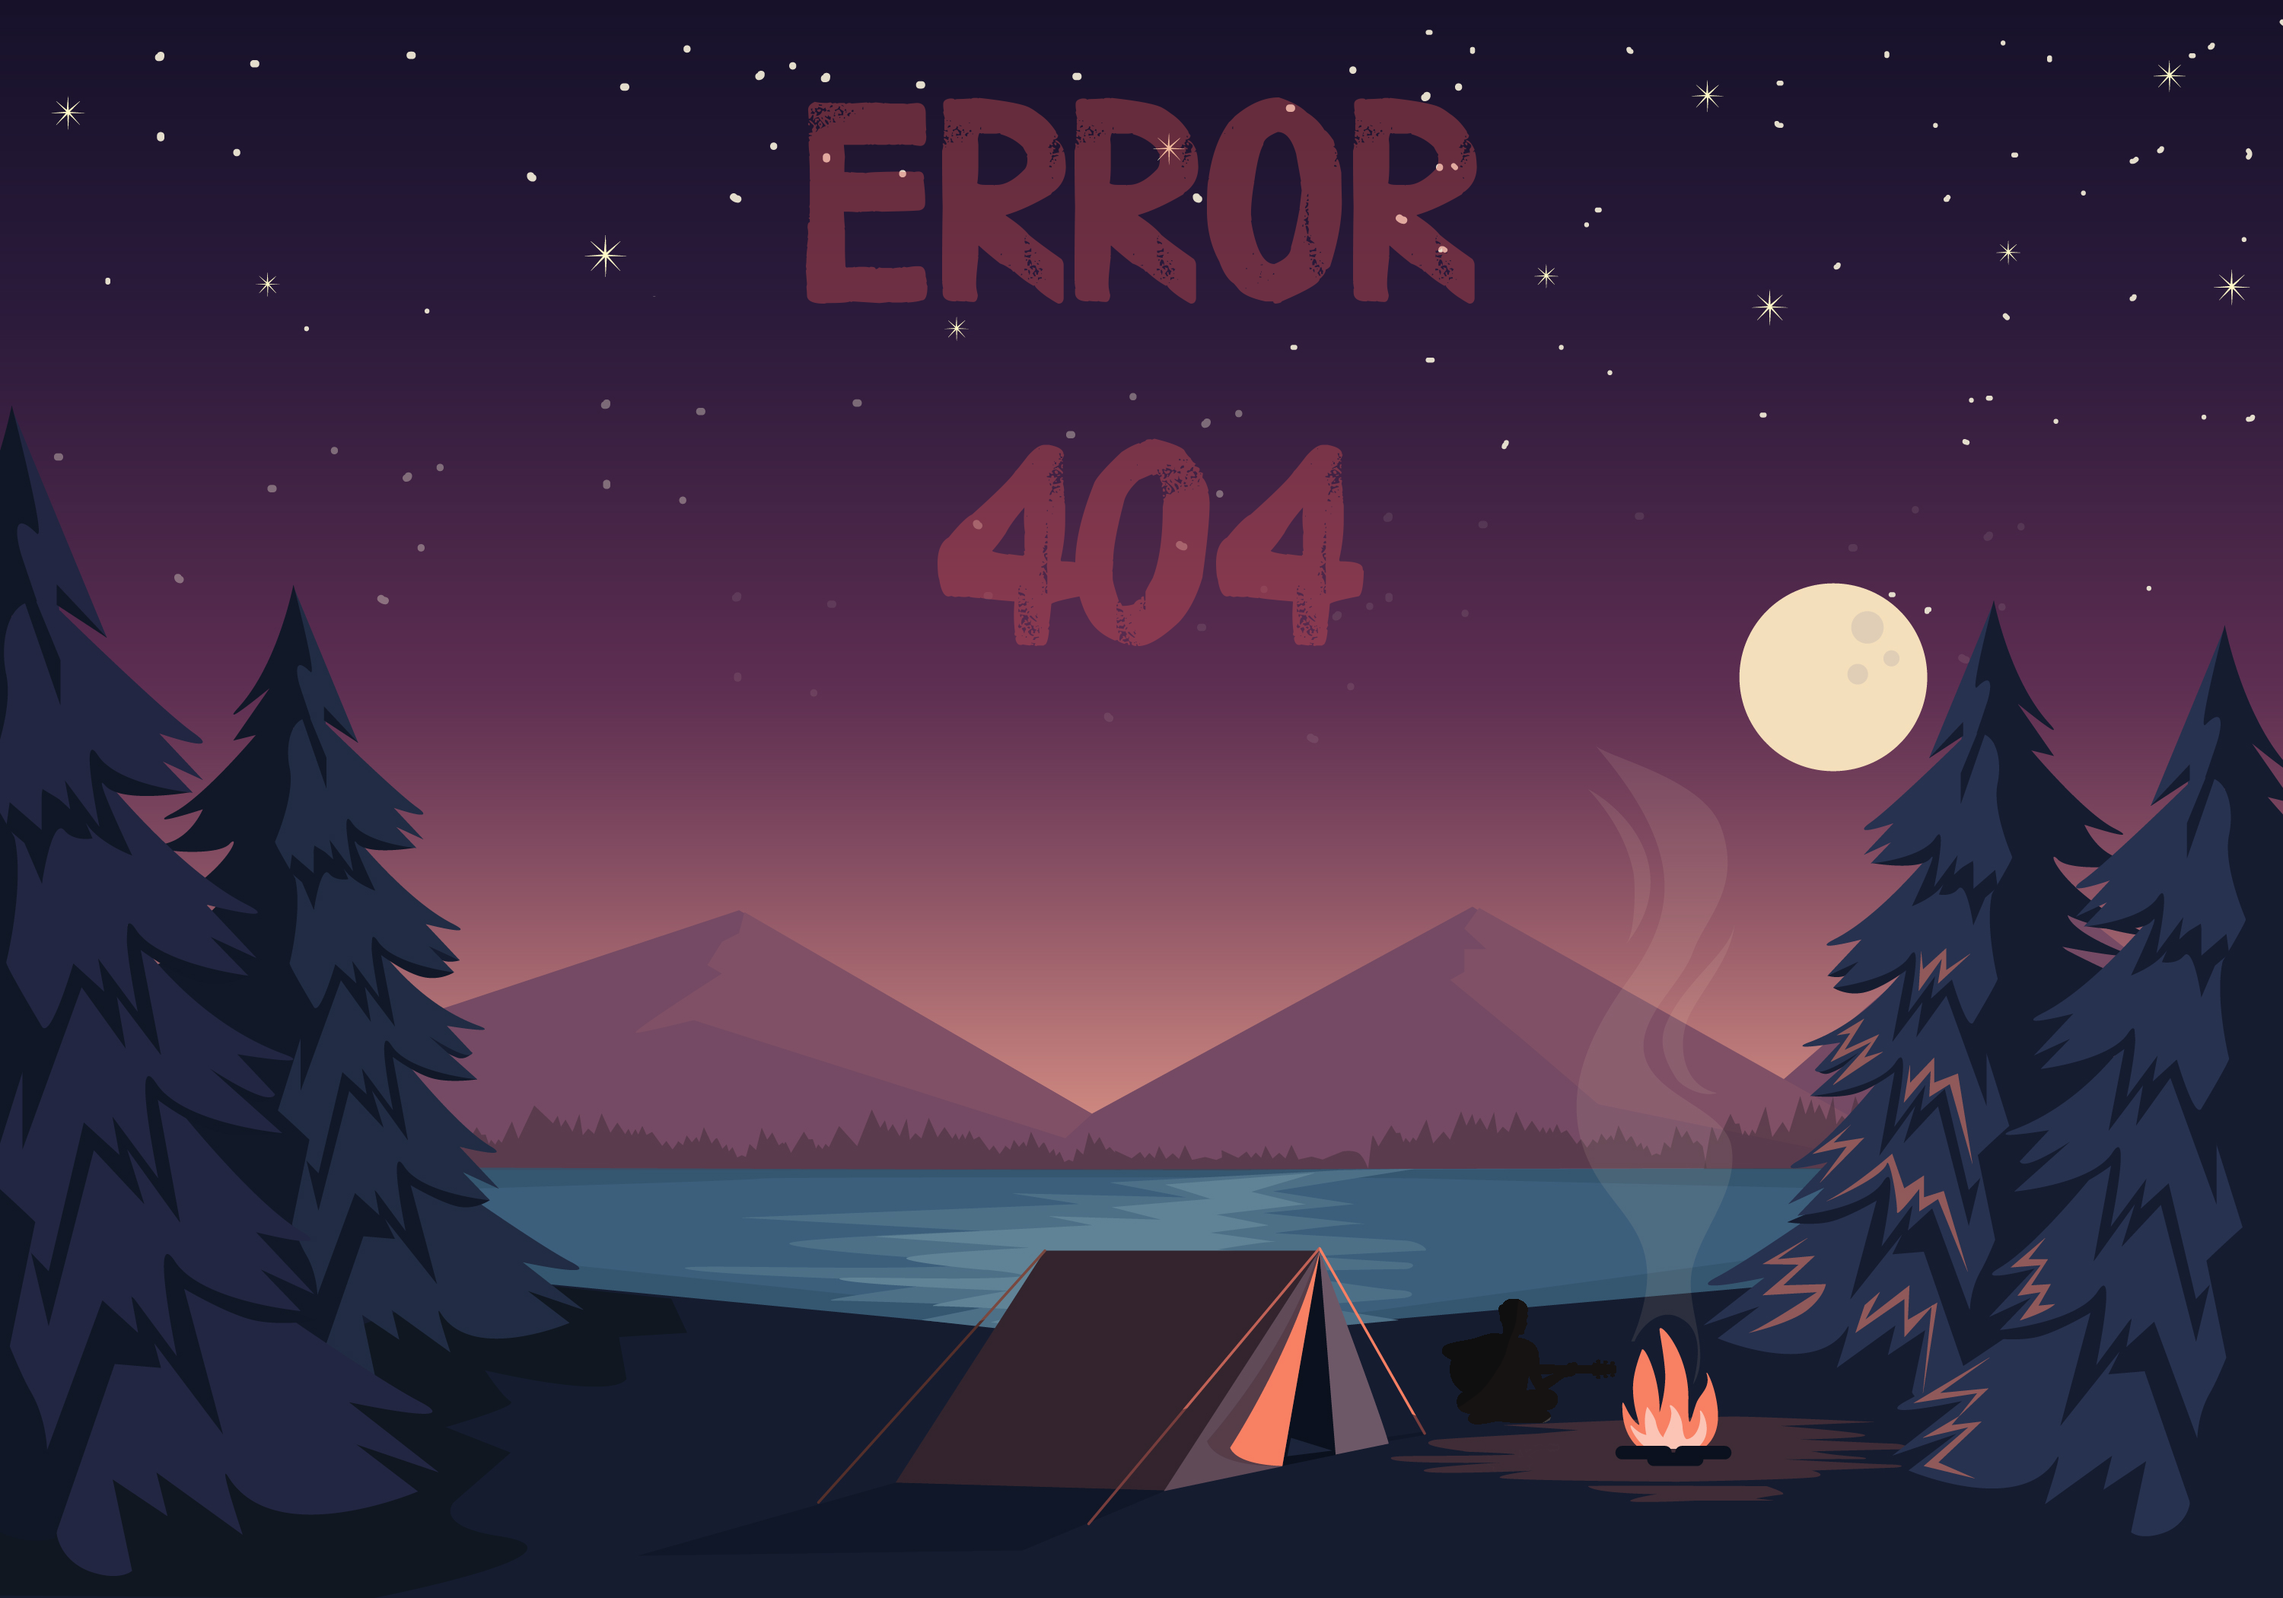
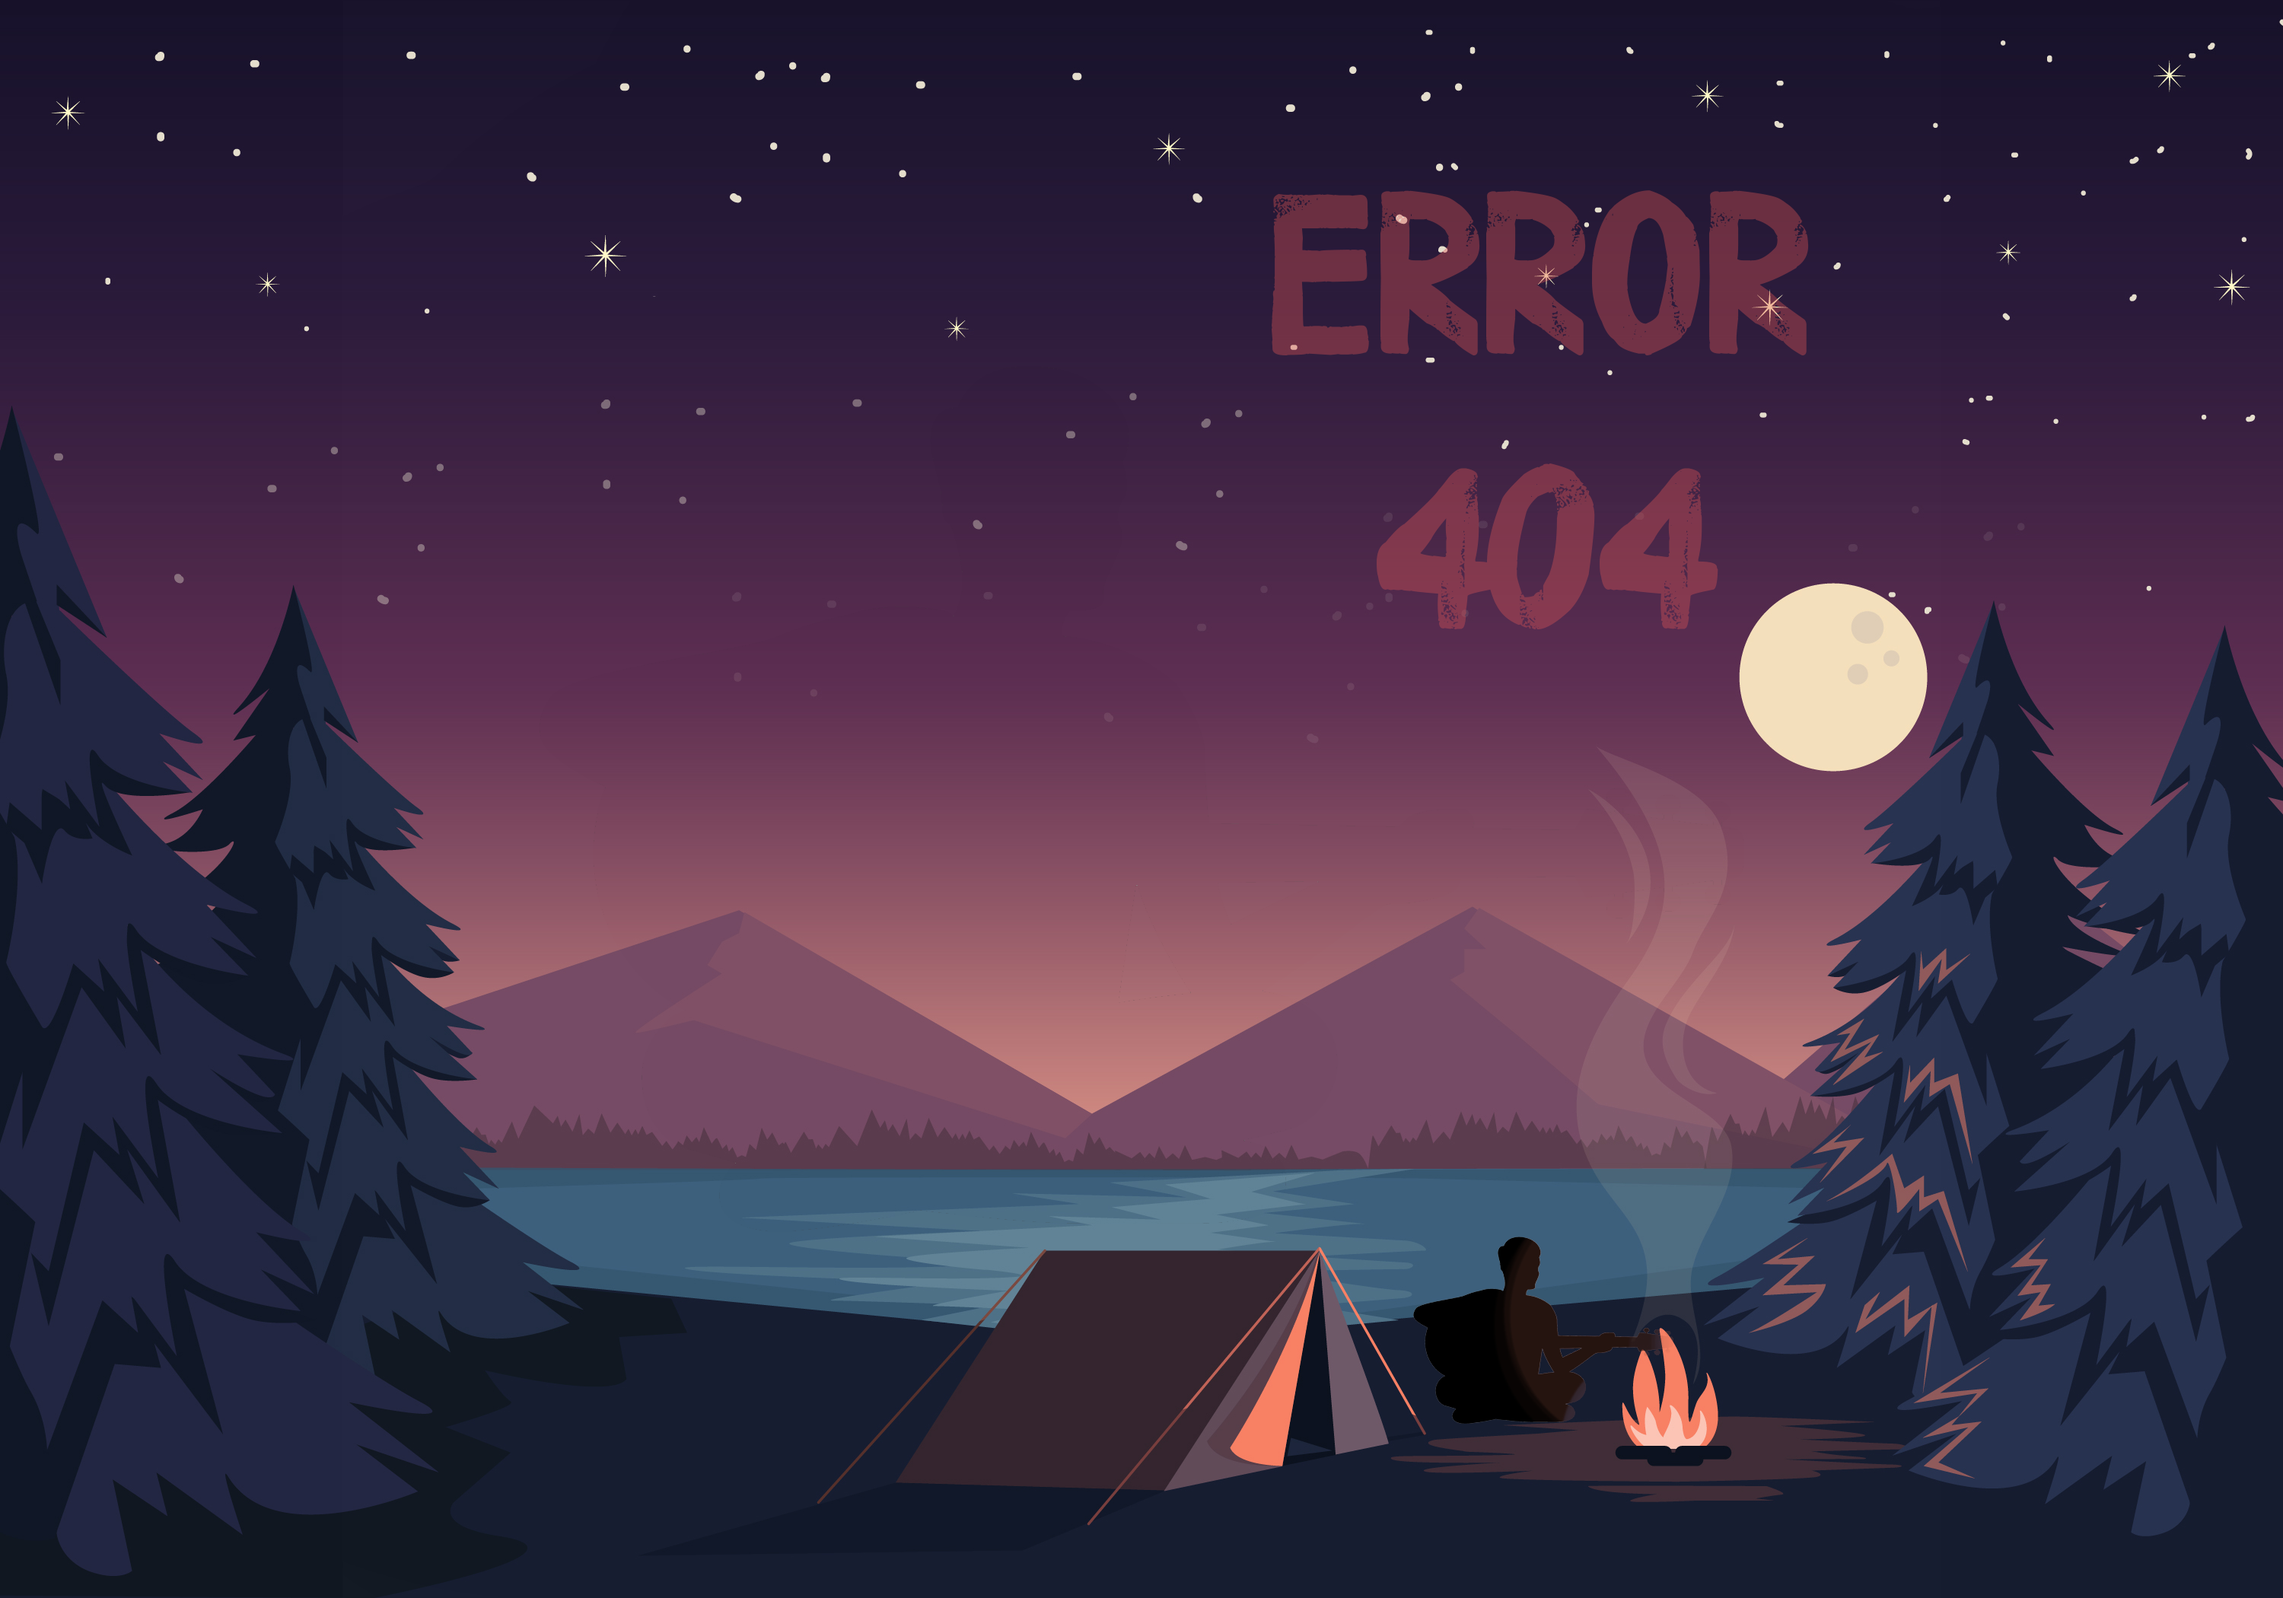
404 fini

Changed region(s): [[0.341, 0.0619, 0.806, 0.2476], [0.403, 0.2786, 0.775, 0.4024], [0.62, 0.7738, 0.713, 0.8976]]

diff --git a/src/views/PageNfound.vue b/src/views/PageNfound.vue
@@ -3,13 +3,15 @@
     <h1 class="container_text">
       Oh tu t'es perdu ? Viens t'asseoir et griller une guimauve !
     </h1>
-    <button class="container_submit" type="submit">Partir du camping</button>
+    <button onclick="history.back()" class="container_submit" type="submit">
+      Partir du camping
+    </button>
   </div>
 </template>
 <style lang="scss" scoped>
+@import "../variables";
 body {
   height: 100vh;
-  border: 9px rgb(17, 255, 17) solid;
 }
 .container {
   display: flex;
@@ -22,9 +24,36 @@ body {
   // background-color: greenyellow;
   background-image: url("@/assets/Camoulax/fond1.png");
 
+  @media (min-width: $tablette-screen) {
+    display: flex;
+    flex-direction: column;
+    height: 100vh;
+    width: 100vw;
+    background-size: 140%;
+    position: fixed;
+    background-position: 140%;
+  }
+
+  @media (min-width: $desktop-screen) {
+    display: flex;
+    flex-direction: column;
+    height: 100vh;
+    width: 100vw;
+    background-size: 80%;
+    position: fixed;
+    background-position: 60%;
+  }
+
   &_text {
-    color: brown;
+    color: #ffffff7a;
     text-align: center;
+    font-size: 16px;
+    margin-top: 50vh;
+    @media (min-width: $desktop-screen) {
+      color: #ffffff7a;
+      font-size: 28px;
+      margin-top: 50vh;
+    }
   }
 
   &_submit {
@@ -33,9 +62,28 @@ body {
     left: 0;
     right: 0;
     margin: auto;
-    max-width: 15vh;
-  }
-  @media screen and (min-width: 640px) {
+    height: 44px;
+    width: 150px;
+    box-shadow: #fff 0 -1px 4px, #ff0 0 -2px 10px, #ff8000 0 -10px 20px,
+      red 0 -18px 40px, 5px 5px 15px 5px rgba(255, 239, 0, 0);
+    background-color: rgba(255, 213, 87, 0.937);
+    border: none;
+    @media (min-width: $tablette-screen) {
+      height: 44px;
+      position: absolute;
+      bottom: 200px;
+      right: 0;
+      left: 60vw;
+      margin: auto;
+    }
+    @media (min-width: $desktop-screen) {
+      height: 44px;
+      position: absolute;
+      bottom: 200px;
+      right: 0;
+      left: 60vw;
+      margin: auto;
+    }
   }
 }
 </style>

diff --git a/src/views/PagePropos.vue b/src/views/PagePropos.vue
@@ -1,28 +1,5 @@
 <template>
   <body>
-    <h1>À propos</h1>
-    <div class="blog">
-      <div class="blog_post__img">
-        <img
-          src="https://i.pinimg.com/originals/f0/8d/e8/f08de875020a1f20dd1df22510b010d0.jpg"
-          alt=""
-        />
-      </div>
-      <h1 class="blog_post__title">Qui suis-je ?</h1>
-    </div>
-
-    <p class="blog_post_text">
-      Assistante de direction et formatrice bureautique depuis 2017, j’ai eu la
-      chance de reprendre le flambeau de la société IFS73 en tant que gérante en
-      2020. Diplômée d’un bachelor management et gestion des entreprises,j’ai la
-      chance aujourd’hui d’allier mon intérêt pour l’organisation et la gestion
-      a vec mon sens de la communication et du partage.
-    </p>
-    <a class="blog_post_cta">
-      <router-link to="/contact" class="blog_post_cta"
-        >Contactez-moi</router-link
-      ></a
-    >
   </body>
 </template>
 <style></style>

diff --git a/src/router/index.js b/src/router/index.js
@@ -39,7 +39,7 @@ const routes = [
     component: () => import("../views/PagePropos.vue"),
   },
   {
-    path: "/404",
+    path: "/*",
     name: "404",
     component: () => import("../views/PageNfound.vue"),
   },

diff --git a/src/_variables.scss b/src/_variables.scss
@@ -1,0 +1,2 @@
+$tablette-screen: 768px;
+$desktop-screen: 1024px;
